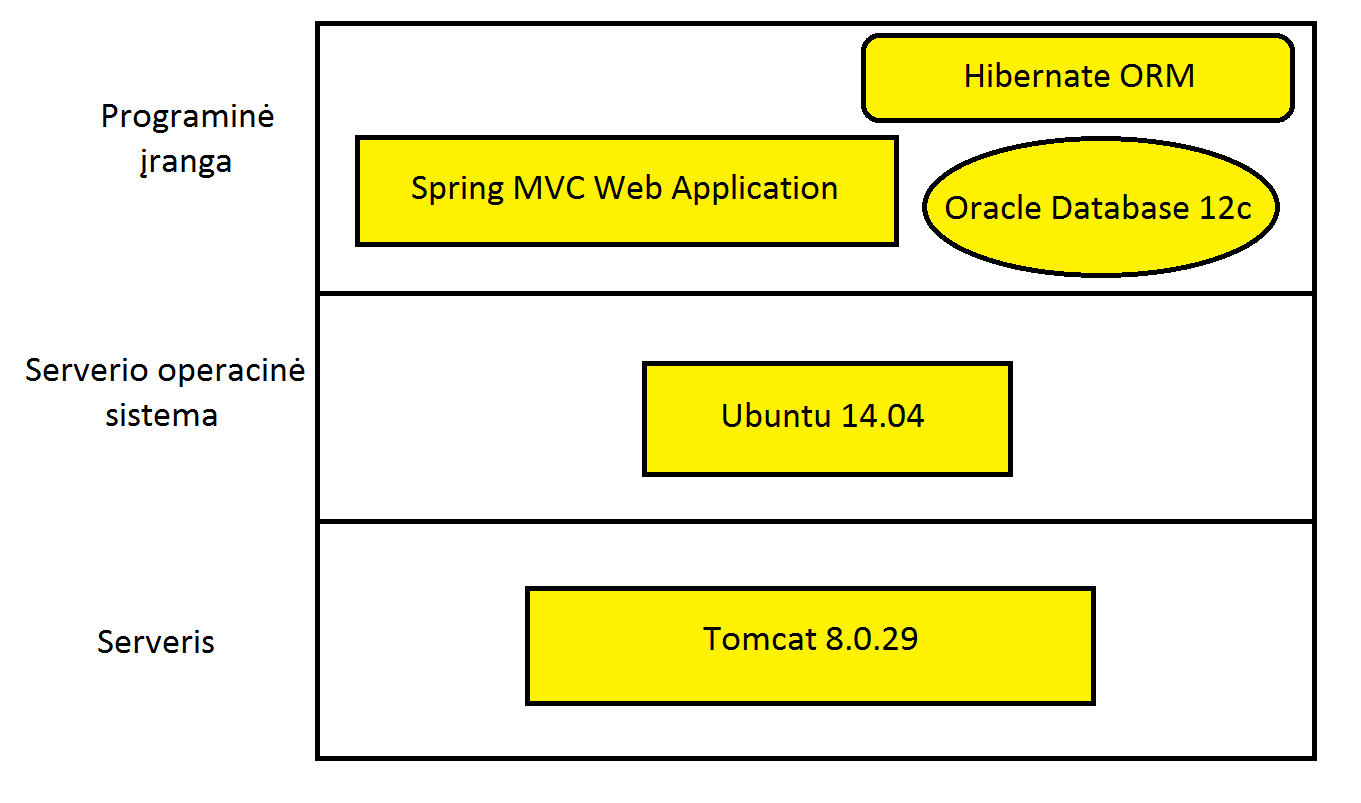
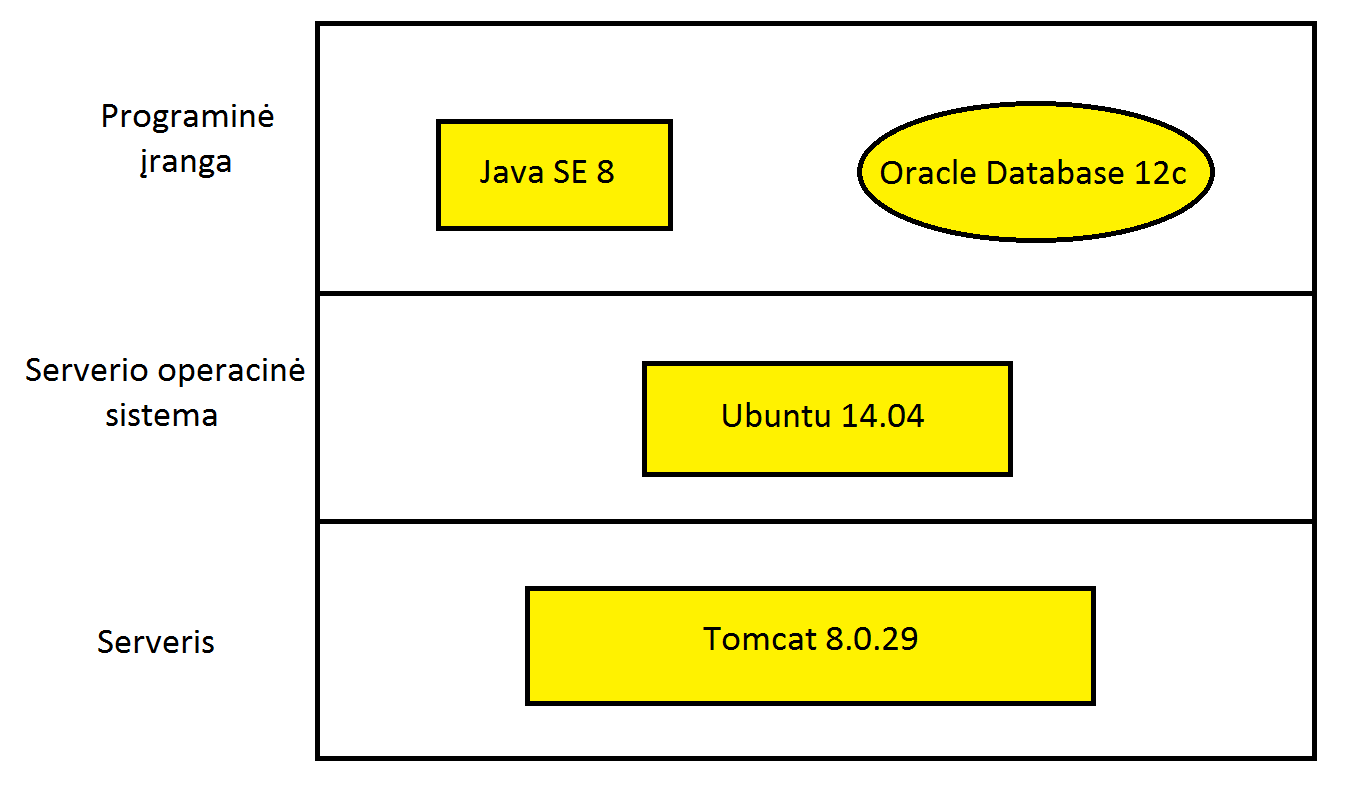
Added system architecture2. Need to be fixed

Changed region(s): [[0.2469, 0.0311, 0.9566, 0.3736]]

diff --git a/3lab/Programų sistemos projektas.tex b/3lab/Programų sistemos projektas.tex
@@ -96,9 +96,9 @@ Vilnius \ \  2015
 
 \section{Sistemos architektūra}
 \subsection{Serverio - mašinos, kurioje bus diegiama sistema - aplinka}
-\hspace{-1cm}
 \includegraphics[scale=0.5]{architektura1}
 \subsection{Sistemos komponentai}
+\includegraphics[scale=0.5]{architektura2}
 
 
 \section{Sudėtingesnių modulių veikimo apibrėžimai}
